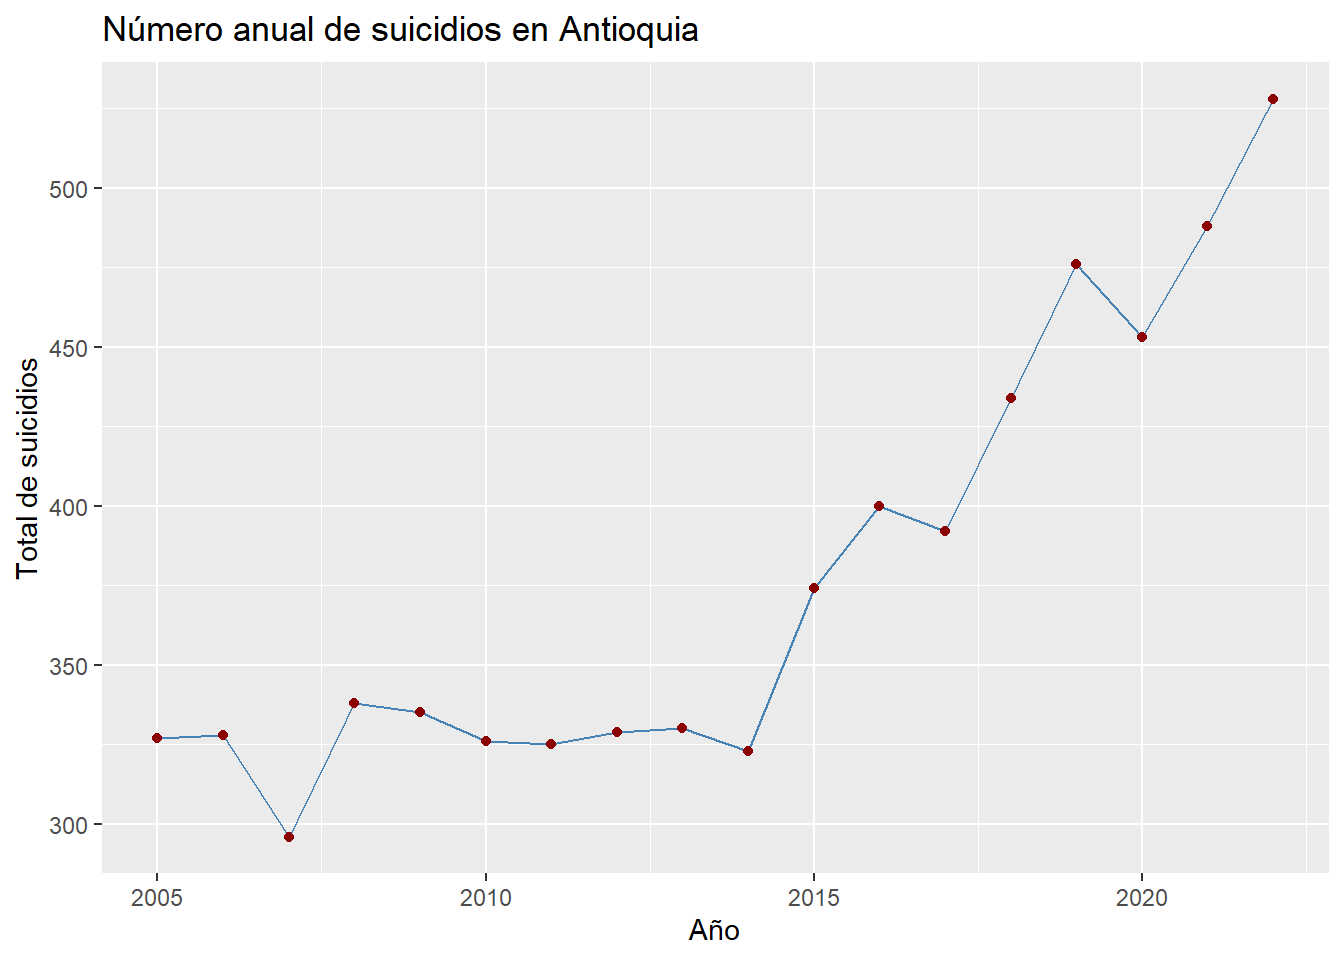
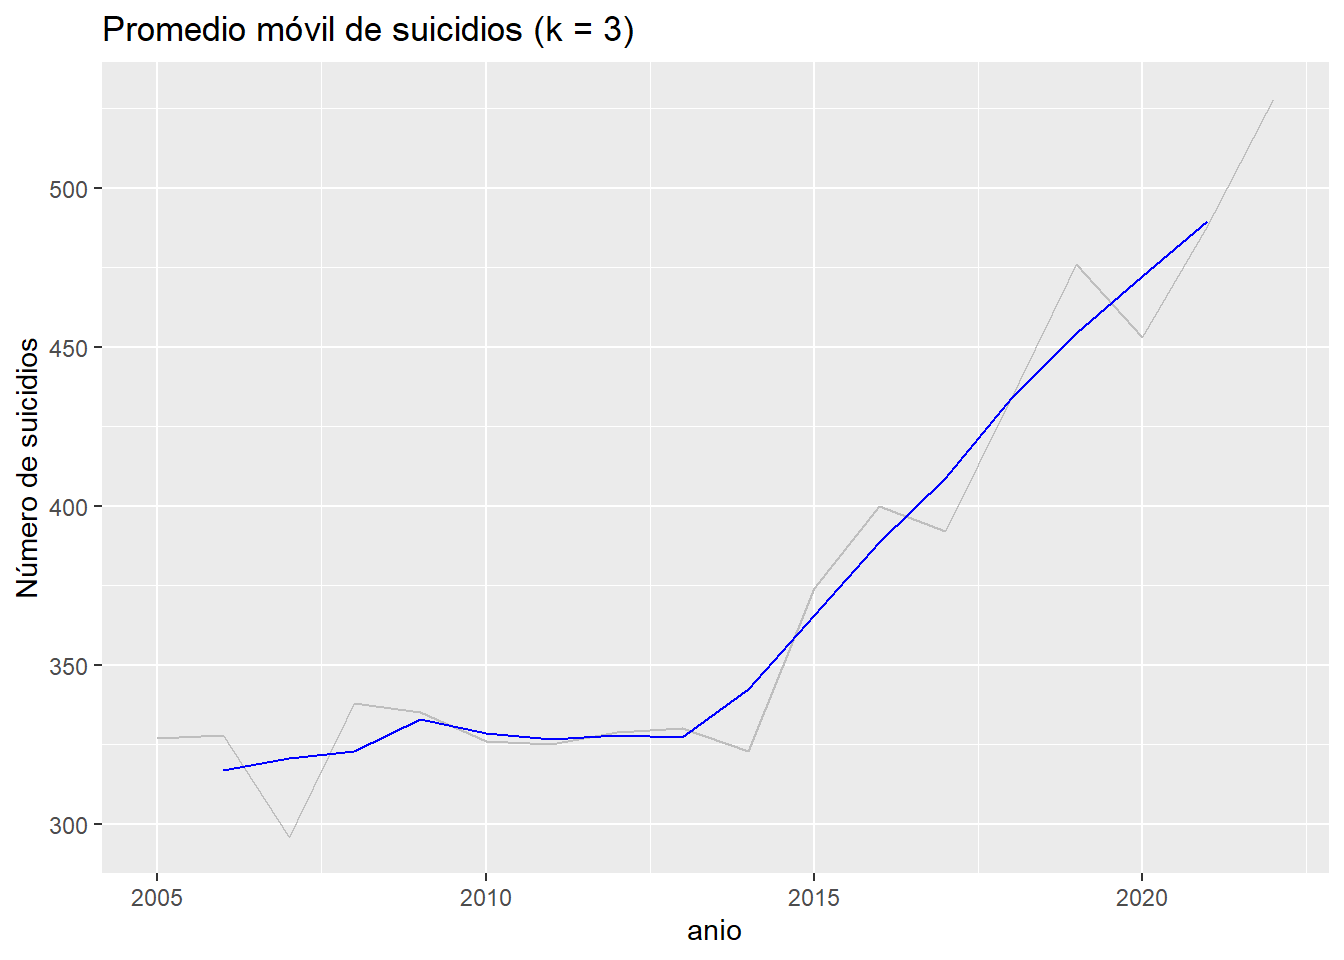
ac

diff --git a/docs/fundamentos.html b/docs/fundamentos.html
@@ -4,18 +4,18 @@
 
   <meta charset="utf-8" />
   <meta http-equiv="X-UA-Compatible" content="IE=edge" />
-  <title>Capítulo 3 Fundamentos Descriptivos | Series de Tiempo</title>
-  <meta name="description" content="Capítulo 3 Fundamentos Descriptivos | Series de Tiempo" />
+  <title>Capítulo 2 Fundamentos Descriptivos | Series de Tiempo</title>
+  <meta name="description" content="Capítulo 2 Fundamentos Descriptivos | Series de Tiempo" />
   <meta name="generator" content="bookdown 0.43 and GitBook 2.6.7" />
 
-  <meta property="og:title" content="Capítulo 3 Fundamentos Descriptivos | Series de Tiempo" />
+  <meta property="og:title" content="Capítulo 2 Fundamentos Descriptivos | Series de Tiempo" />
   <meta property="og:type" content="book" />
   
   
   
 
   <meta name="twitter:card" content="summary" />
-  <meta name="twitter:title" content="Capítulo 3 Fundamentos Descriptivos | Series de Tiempo" />
+  <meta name="twitter:title" content="Capítulo 2 Fundamentos Descriptivos | Series de Tiempo" />
   
   
   
@@ -30,7 +30,7 @@
   <meta name="apple-mobile-web-app-status-bar-style" content="black" />
   
   
-<link rel="prev" href="pronóstico-de-suicidios-en-antioquia-2005-2022.html"/>
+<link rel="prev" href="intro.html"/>
 <link rel="next" href="holt_winter.html"/>
 <script src="libs/jquery-3.6.0/jquery-3.6.0.min.js"></script>
 <script src="https://cdn.jsdelivr.net/npm/fuse.js@6.4.6/dist/fuse.min.js"></script>
@@ -140,35 +140,30 @@ code span.wa { color: #60a0b0; font-weight: bold; font-style: italic; } /* Warni
 <li><a href="./">Series de Tiempo</a></li>
 
 <li class="divider"></li>
-<li class="chapter" data-level="1" data-path="intro.html"><a href="intro.html"><i class="fa fa-check"></i><b>1</b> Introduction</a></li>
-<li class="chapter" data-level="2" data-path="pronóstico-de-suicidios-en-antioquia-2005-2022.html"><a href="pronóstico-de-suicidios-en-antioquia-2005-2022.html"><i class="fa fa-check"></i><b>2</b> Pronóstico de Suicidios en Antioquia (2005-2022)</a>
+<li class="chapter" data-level="1" data-path="intro.html"><a href="intro.html"><i class="fa fa-check"></i><b>1</b> Introduction</a>
 <ul>
-<li class="chapter" data-level="2.1" data-path="pronóstico-de-suicidios-en-antioquia-2005-2022.html"><a href="pronóstico-de-suicidios-en-antioquia-2005-2022.html#justificación"><i class="fa fa-check"></i><b>2.1</b> Justificación</a></li>
-<li class="chapter" data-level="2.2" data-path="pronóstico-de-suicidios-en-antioquia-2005-2022.html"><a href="pronóstico-de-suicidios-en-antioquia-2005-2022.html#por-qué-aplica-para-pronóstico-en-series-de-tiempo"><i class="fa fa-check"></i><b>2.2</b> ¿Por qué aplica para pronóstico en series de tiempo?</a></li>
-<li class="chapter" data-level="2.3" data-path="pronóstico-de-suicidios-en-antioquia-2005-2022.html"><a href="pronóstico-de-suicidios-en-antioquia-2005-2022.html#valor-agregado-del-pronóstico"><i class="fa fa-check"></i><b>2.3</b> Valor agregado del pronóstico</a></li>
-<li class="chapter" data-level="2.4" data-path="pronóstico-de-suicidios-en-antioquia-2005-2022.html"><a href="pronóstico-de-suicidios-en-antioquia-2005-2022.html#fuente-de-los-datos-y-permisos-de-uso"><i class="fa fa-check"></i><b>2.4</b> Fuente de los datos y permisos de uso</a></li>
+<li class="chapter" data-level="1.1" data-path="intro.html"><a href="intro.html#justificación"><i class="fa fa-check"></i><b>1.1</b> Justificación</a></li>
+<li class="chapter" data-level="1.2" data-path="intro.html"><a href="intro.html#por-qué-aplica-para-pronóstico-en-series-de-tiempo"><i class="fa fa-check"></i><b>1.2</b> ¿Por qué aplica para pronóstico en series de tiempo?</a></li>
+<li class="chapter" data-level="1.3" data-path="intro.html"><a href="intro.html#valor-agregado-del-pronóstico"><i class="fa fa-check"></i><b>1.3</b> Valor agregado del pronóstico</a></li>
+<li class="chapter" data-level="1.4" data-path="intro.html"><a href="intro.html#fuente-de-los-datos-y-permisos-de-uso"><i class="fa fa-check"></i><b>1.4</b> Fuente de los datos y permisos de uso</a></li>
 </ul></li>
-<li class="chapter" data-level="3" data-path="fundamentos.html"><a href="fundamentos.html"><i class="fa fa-check"></i><b>3</b> Fundamentos Descriptivos</a>
+<li class="chapter" data-level="2" data-path="fundamentos.html"><a href="fundamentos.html"><i class="fa fa-check"></i><b>2</b> Fundamentos Descriptivos</a>
 <ul>
-<li class="chapter" data-level="3.1" data-path="fundamentos.html"><a href="fundamentos.html#exploracion-de-datos"><i class="fa fa-check"></i><b>3.1</b> Exploracion de Datos</a></li>
-<li class="chapter" data-level="3.2" data-path="fundamentos.html"><a href="fundamentos.html#promedio-movil."><i class="fa fa-check"></i><b>3.2</b> Promedio Movil.</a></li>
-<li class="chapter" data-level="3.3" data-path="fundamentos.html"><a href="fundamentos.html#rezagos-y-autocorrelación"><i class="fa fa-check"></i><b>3.3</b> Rezagos y autocorrelación</a></li>
-<li class="chapter" data-level="3.4" data-path="fundamentos.html"><a href="fundamentos.html#estacionariedad-y-diferenciación"><i class="fa fa-check"></i><b>3.4</b> Estacionariedad y diferenciación</a></li>
-<li class="chapter" data-level="3.5" data-path="fundamentos.html"><a href="fundamentos.html#transformación-box-cox"><i class="fa fa-check"></i><b>3.5</b> Transformación Box-Cox</a></li>
+<li class="chapter" data-level="2.1" data-path="fundamentos.html"><a href="fundamentos.html#exploracion-de-datos"><i class="fa fa-check"></i><b>2.1</b> Exploracion de Datos</a></li>
+<li class="chapter" data-level="2.2" data-path="fundamentos.html"><a href="fundamentos.html#promedio-movil."><i class="fa fa-check"></i><b>2.2</b> Promedio Movil.</a></li>
+<li class="chapter" data-level="2.3" data-path="fundamentos.html"><a href="fundamentos.html#rezagos-y-autocorrelación"><i class="fa fa-check"></i><b>2.3</b> Rezagos y autocorrelación</a></li>
+<li class="chapter" data-level="2.4" data-path="fundamentos.html"><a href="fundamentos.html#estacionariedad-y-diferenciación"><i class="fa fa-check"></i><b>2.4</b> Estacionariedad y diferenciación</a></li>
+<li class="chapter" data-level="2.5" data-path="fundamentos.html"><a href="fundamentos.html#transformación-box-cox"><i class="fa fa-check"></i><b>2.5</b> Transformación Box-Cox</a></li>
 </ul></li>
-<li class="chapter" data-level="4" data-path="holt_winter.html"><a href="holt_winter.html"><i class="fa fa-check"></i><b>4</b> Modelado con Holt Winters y Suavizante</a>
+<li class="chapter" data-level="3" data-path="holt_winter.html"><a href="holt_winter.html"><i class="fa fa-check"></i><b>3</b> Modelado con Holt Winters y Suavizante</a>
 <ul>
-<li class="chapter" data-level="4.1" data-path="holt_winter.html"><a href="holt_winter.html#metodologia-de-holt-winters"><i class="fa fa-check"></i><b>4.1</b> Metodologia de Holt Winters</a></li>
+<li class="chapter" data-level="3.1" data-path="holt_winter.html"><a href="holt_winter.html#metodologia-de-holt-winters"><i class="fa fa-check"></i><b>3.1</b> Metodologia de Holt Winters</a></li>
 </ul></li>
-<<<<<<< HEAD
 <li class="chapter" data-level="4" data-path="Modelo_lineal_estacionariedad.html"><a href="Modelo_lineal_estacionariedad.html"><i class="fa fa-check"></i><b>4</b> Análisis Temporal: Modelos Lineales y Estacionariedad</a></li>
 <li class="chapter" data-level="5" data-path="Prophet.html"><a href="Prophet.html"><i class="fa fa-check"></i><b>5</b> Aplicación del Modelo Prophet</a>
 <ul>
 <li class="chapter" data-level="5.1" data-path="Prophet.html"><a href="Prophet.html#justificación-regresiva-y-ajuste-estacionario-en-series-temporales"><i class="fa fa-check"></i><b>5.1</b> Justificación Regresiva y Ajuste Estacionario en Series Temporales</a></li>
 </ul></li>
-=======
-<li class="chapter" data-level="5" data-path="Modelo_lineal_estacionariedad.html"><a href="Modelo_lineal_estacionariedad.html"><i class="fa fa-check"></i><b>5</b> Análisis Temporal: Modelos Lineales y Estacionariedad</a></li>
->>>>>>> c8d0ec3f0c4178bc477d328849ca25a4e4495198
 <li class="chapter" data-level="" data-path="references.html"><a href="references.html"><i class="fa fa-check"></i>References</a></li>
 <li class="divider"></li>
 <li><a href="https://github.com/zairapizo/SeriesTime" target="blank">Publicado con Bookdown</a></li>
@@ -190,8 +185,8 @@ code span.wa { color: #60a0b0; font-weight: bold; font-style: italic; } /* Warni
           <div class="page-inner">
 
             <section class="normal" id="section-">
-<div id="fundamentos" class="section level1 hasAnchor" number="3">
-<h1><span class="header-section-number">Capítulo 3</span> Fundamentos Descriptivos<a href="fundamentos.html#fundamentos" class="anchor-section" aria-label="Anchor link to header"></a></h1>
+<div id="fundamentos" class="section level1 hasAnchor" number="2">
+<h1><span class="header-section-number">Capítulo 2</span> Fundamentos Descriptivos<a href="fundamentos.html#fundamentos" class="anchor-section" aria-label="Anchor link to header"></a></h1>
 <p><strong>Variables de la base de datos</strong></p>
 <div class="sourceCode" id="cb1"><pre class="sourceCode r"><code class="sourceCode r"><span id="cb1-1"><a href="fundamentos.html#cb1-1" tabindex="-1"></a><span class="fu">colnames</span>(datos)</span></code></pre></div>
 <pre><code>##  [1] &quot;nombremunicipio&quot;         &quot;codigomunicipio&quot;        
@@ -212,8 +207,8 @@ code span.wa { color: #60a0b0; font-weight: bold; font-style: italic; } /* Warni
 <p><strong>número total de registros</strong></p>
 <div class="sourceCode" id="cb5"><pre class="sourceCode r"><code class="sourceCode r"><span id="cb5-1"><a href="fundamentos.html#cb5-1" tabindex="-1"></a><span class="fu">nrow</span>(datos)</span></code></pre></div>
 <pre><code>## [1] 2250</code></pre>
-<div id="exploracion-de-datos" class="section level2 hasAnchor" number="3.1">
-<h2><span class="header-section-number">3.1</span> Exploracion de Datos<a href="fundamentos.html#exploracion-de-datos" class="anchor-section" aria-label="Anchor link to header"></a></h2>
+<div id="exploracion-de-datos" class="section level2 hasAnchor" number="2.1">
+<h2><span class="header-section-number">2.1</span> Exploracion de Datos<a href="fundamentos.html#exploracion-de-datos" class="anchor-section" aria-label="Anchor link to header"></a></h2>
 <p>Se inicia con la exploracion del Dataset, asi como con el resumen estadistico</p>
 <p><strong>Estructura del dataset</strong></p>
 <div class="sourceCode" id="cb7"><pre class="sourceCode r"><code class="sourceCode r"><span id="cb7-1"><a href="fundamentos.html#cb7-1" tabindex="-1"></a><span class="co"># </span></span>
@@ -341,7 +336,7 @@ code span.wa { color: #60a0b0; font-weight: bold; font-style: italic; } /* Warni
 ## ==&gt;  V &lt;==  No need for mice. This data set is completely observed.
 ##  \  \|/  /
 ##   `-----&#39;</code></pre>
-<p><img src="series-tiempo_files/figure-html/unnamed-chunk-6-1.png" width="672" /></p>
+<p><img src="series-tiempo_files/figure-html/unnamed-chunk-5-1.png" width="672" /></p>
 <div class="sourceCode" id="cb14"><pre class="sourceCode r"><code class="sourceCode r"><span id="cb14-1"><a href="fundamentos.html#cb14-1" tabindex="-1"></a><span class="co">#Construcción de la serie temporal</span></span>
 <span id="cb14-2"><a href="fundamentos.html#cb14-2" tabindex="-1"></a></span>
 <span id="cb14-3"><a href="fundamentos.html#cb14-3" tabindex="-1"></a>df <span class="ot">&lt;-</span> datos <span class="sc">%&gt;%</span></span>
@@ -393,7 +388,7 @@ code span.wa { color: #60a0b0; font-weight: bold; font-style: italic; } /* Warni
 <span id="cb16-7"><a href="fundamentos.html#cb16-7" tabindex="-1"></a>  <span class="fu">geom_point</span>(<span class="at">color =</span> <span class="st">&quot;darkred&quot;</span>) <span class="sc">+</span></span>
 <span id="cb16-8"><a href="fundamentos.html#cb16-8" tabindex="-1"></a>  <span class="fu">labs</span>(<span class="at">title =</span> <span class="st">&quot;Número anual de suicidios en Antioquia&quot;</span>,</span>
 <span id="cb16-9"><a href="fundamentos.html#cb16-9" tabindex="-1"></a>       <span class="at">x =</span> <span class="st">&quot;Año&quot;</span>, <span class="at">y =</span> <span class="st">&quot;Total de suicidios&quot;</span>)</span></code></pre></div>
-<p><img src="series-tiempo_files/figure-html/unnamed-chunk-7-1.png" width="672" /></p>
+<p><img src="series-tiempo_files/figure-html/unnamed-chunk-6-1.png" width="672" /></p>
 <p>La serie muestra una tendencia creciente clara a partir de 2014, con un aumento sostenido en el número de casos de suicidio. Entre 2005 y 2013, los valores se mantienen relativamente estables,con pequeñas fluctuaciones. Desde 2014 se observa una aceleración en el crecimiento,con picos notables en 2018, 2021 y 2022.</p>
 <p>Esto sugiere la presencia de una tendencia no estacionaria, lo que indica que el uso de técnicas como la diferenciación o modelado ARIMA es apropiado para pronóstico y análisis más avanzado.</p>
 <p>La gráfica no evidencia patrones cíclicos repetitivos anuales, lo cual es esperable al trabajar con datos anuales.</p>
@@ -401,8 +396,8 @@ code span.wa { color: #60a0b0; font-weight: bold; font-style: italic; } /* Warni
 <p>Estos descensos temporales podrían representar factores exógenos o eventos sociales que afectaron los reportes o las causas de suicidio.</p>
 <p>Estas irregularidades justifican el uso de métodos de suaviza miento como promedios móviles para atenuar las variaciones y destacar la tendencia.</p>
 </div>
-<div id="promedio-movil." class="section level2 hasAnchor" number="3.2">
-<h2><span class="header-section-number">3.2</span> Promedio Movil.<a href="fundamentos.html#promedio-movil." class="anchor-section" aria-label="Anchor link to header"></a></h2>
+<div id="promedio-movil." class="section level2 hasAnchor" number="2.2">
+<h2><span class="header-section-number">2.2</span> Promedio Movil.<a href="fundamentos.html#promedio-movil." class="anchor-section" aria-label="Anchor link to header"></a></h2>
 <p>Promedio móvil del número de suicidios por año en Antioquia (2005–2022)</p>
 <div class="sourceCode" id="cb17"><pre class="sourceCode r"><code class="sourceCode r"><span id="cb17-1"><a href="fundamentos.html#cb17-1" tabindex="-1"></a><span class="co">#Promedio móvil</span></span>
 <span id="cb17-2"><a href="fundamentos.html#cb17-2" tabindex="-1"></a>suicidios_anuales <span class="ot">&lt;-</span> suicidios_anuales <span class="sc">%&gt;%</span></span>
@@ -413,7 +408,7 @@ code span.wa { color: #60a0b0; font-weight: bold; font-style: italic; } /* Warni
 <span id="cb17-7"><a href="fundamentos.html#cb17-7" tabindex="-1"></a>  <span class="fu">geom_line</span>(<span class="fu">aes</span>(<span class="at">y =</span> promedio_movil), <span class="at">color =</span> <span class="st">&quot;blue&quot;</span>) <span class="sc">+</span></span>
 <span id="cb17-8"><a href="fundamentos.html#cb17-8" tabindex="-1"></a>  <span class="fu">labs</span>(<span class="at">title =</span> <span class="st">&quot;Promedio móvil de suicidios (k = 3)&quot;</span>,</span>
 <span id="cb17-9"><a href="fundamentos.html#cb17-9" tabindex="-1"></a>       <span class="at">y =</span> <span class="st">&quot;Número de suicidios&quot;</span>)</span></code></pre></div>
-<p><img src="series-tiempo_files/figure-html/unnamed-chunk-8-1.png" width="672" /></p>
+<p><img src="series-tiempo_files/figure-html/unnamed-chunk-7-1.png" width="672" /></p>
 <p>El anterior gráfico presenta el promedio móvil del número de suicidios por año en Antioquia desde 2005, utilizando una ventana de suavizamiento de k=3.</p>
 <p>De las cual se puede describir lo siguiente:</p>
 <p>La línea gris representa los datos anuales reales de suicidios.</p>
@@ -423,13 +418,13 @@ code span.wa { color: #60a0b0; font-weight: bold; font-style: italic; } /* Warni
 <p>El promedio móvil permite visualizar un crecimiento sostenido, especialmente desde 2015 en adelante.</p>
 <p>Puedo deducir algunas interpretaciones como que el aumento continuo podría estar relacionado con factores estructurales como problemas de salud mental, desigualdades sociales, impactos económicos o, en los años más recientes, efectos derivados de la pandemia.</p>
 </div>
-<div id="rezagos-y-autocorrelación" class="section level2 hasAnchor" number="3.3">
-<h2><span class="header-section-number">3.3</span> Rezagos y autocorrelación<a href="fundamentos.html#rezagos-y-autocorrelación" class="anchor-section" aria-label="Anchor link to header"></a></h2>
+<div id="rezagos-y-autocorrelación" class="section level2 hasAnchor" number="2.3">
+<h2><span class="header-section-number">2.3</span> Rezagos y autocorrelación<a href="fundamentos.html#rezagos-y-autocorrelación" class="anchor-section" aria-label="Anchor link to header"></a></h2>
 <div class="sourceCode" id="cb18"><pre class="sourceCode r"><code class="sourceCode r"><span id="cb18-1"><a href="fundamentos.html#cb18-1" tabindex="-1"></a>ts_suicidios <span class="ot">&lt;-</span> <span class="fu">ts</span>(suicidios_anuales<span class="sc">$</span>total_suicidios, <span class="at">start =</span> <span class="fu">min</span>(suicidios_anuales<span class="sc">$</span>anio), <span class="at">frequency =</span> <span class="dv">1</span>)</span>
 <span id="cb18-2"><a href="fundamentos.html#cb18-2" tabindex="-1"></a></span>
 <span id="cb18-3"><a href="fundamentos.html#cb18-3" tabindex="-1"></a><span class="co"># Autocorrelación</span></span>
 <span id="cb18-4"><a href="fundamentos.html#cb18-4" tabindex="-1"></a>forecast<span class="sc">::</span><span class="fu">ggAcf</span>(ts_suicidios) <span class="sc">+</span> <span class="fu">ggtitle</span>(<span class="st">&quot;Función de Autocorrelación (ACF)&quot;</span>)</span></code></pre></div>
-<p><img src="series-tiempo_files/figure-html/unnamed-chunk-9-1.png" width="672" /></p>
+<p><img src="series-tiempo_files/figure-html/unnamed-chunk-8-1.png" width="672" /></p>
 <div class="sourceCode" id="cb19"><pre class="sourceCode r"><code class="sourceCode r"><span id="cb19-1"><a href="fundamentos.html#cb19-1" tabindex="-1"></a><span class="co"># Descomposición</span></span>
 <span id="cb19-2"><a href="fundamentos.html#cb19-2" tabindex="-1"></a><span class="co"># Si tuvieras frecuencia mensual: frequency = 12</span></span>
 <span id="cb19-3"><a href="fundamentos.html#cb19-3" tabindex="-1"></a><span class="co">#decomposicion &lt;- decompose(ts_suicidios, type = &quot;additive&quot;)</span></span>
@@ -446,8 +441,8 @@ code span.wa { color: #60a0b0; font-weight: bold; font-style: italic; } /* Warni
 <p>La estructura de autocorrelación sugiere que un modelo autoregresivo simple, como AR(1) o AR(2), podría ser adecuado para capturar la dinámica de la serie.</p>
 <p>No se identifican patrones de estacionalidad, ya que no se observan picos regulares a intervalos fijos (por ejemplo, cada 12 rezagos, como sería típico en series mensuales con estacionalidad anual).</p>
 </div>
-<div id="estacionariedad-y-diferenciación" class="section level2 hasAnchor" number="3.4">
-<h2><span class="header-section-number">3.4</span> Estacionariedad y diferenciación<a href="fundamentos.html#estacionariedad-y-diferenciación" class="anchor-section" aria-label="Anchor link to header"></a></h2>
+<div id="estacionariedad-y-diferenciación" class="section level2 hasAnchor" number="2.4">
+<h2><span class="header-section-number">2.4</span> Estacionariedad y diferenciación<a href="fundamentos.html#estacionariedad-y-diferenciación" class="anchor-section" aria-label="Anchor link to header"></a></h2>
 <p>Test de Dickey-Fuller Aumentado (ADF)</p>
 <div class="sourceCode" id="cb20"><pre class="sourceCode r"><code class="sourceCode r"><span id="cb20-1"><a href="fundamentos.html#cb20-1" tabindex="-1"></a><span class="fu">adf.test</span>(ts_suicidios)  <span class="co"># Prueba de Dickey-Fuller aumentada</span></span></code></pre></div>
 <pre><code>## 
@@ -471,7 +466,7 @@ code span.wa { color: #60a0b0; font-weight: bold; font-style: italic; } /* Warni
 <span id="cb22-2"><a href="fundamentos.html#cb22-2" tabindex="-1"></a>ts_diff <span class="ot">&lt;-</span> <span class="fu">diff</span>(ts_suicidios)</span>
 <span id="cb22-3"><a href="fundamentos.html#cb22-3" tabindex="-1"></a></span>
 <span id="cb22-4"><a href="fundamentos.html#cb22-4" tabindex="-1"></a><span class="fu">plot</span>(ts_diff, <span class="at">main =</span> <span class="st">&quot;Serie diferenciada&quot;</span>, <span class="at">ylab =</span> <span class="st">&quot;Diferencia de suicidios&quot;</span>)</span></code></pre></div>
-<p><img src="series-tiempo_files/figure-html/unnamed-chunk-11-1.png" width="672" /></p>
+<p><img src="series-tiempo_files/figure-html/unnamed-chunk-10-1.png" width="672" /></p>
 <p>La gráfica anterior muestra las diferencias anuales en el número de suicidios, lo que permite analizar el comportamiento de los cambios interanuales.</p>
 <p>En comparación con la serie original, podemos| obseravr que el comportamiento ahora es más estable, y se ha eliminado la tendencia creciente previamente observada.</p>
 <p>No obstante, se evidencian fluctuaciones amplias en ciertos periodos, especialmente después de 2014, lo que podría reflejar cambios estructurales o eventos atípicos en esos años.</p>
@@ -494,13 +489,13 @@ code span.wa { color: #60a0b0; font-weight: bold; font-style: italic; } /* Warni
 <p>Interpretación:</p>
 <p>El valor p obtenido (0.4921) es significativamente mayor que el umbral común de significancia (0.05), por lo tanto, no se rechaza la hipótesis nula de no estacionariedad. Esto sugiere que, incluso después de aplicar una primera diferenciación, la serie aún no cumple con los criterios estadísticos de estacionariedad según el test ADF.</p>
 </div>
-<div id="transformación-box-cox" class="section level2 hasAnchor" number="3.5">
-<h2><span class="header-section-number">3.5</span> Transformación Box-Cox<a href="fundamentos.html#transformación-box-cox" class="anchor-section" aria-label="Anchor link to header"></a></h2>
+<div id="transformación-box-cox" class="section level2 hasAnchor" number="2.5">
+<h2><span class="header-section-number">2.5</span> Transformación Box-Cox<a href="fundamentos.html#transformación-box-cox" class="anchor-section" aria-label="Anchor link to header"></a></h2>
 <div class="sourceCode" id="cb25"><pre class="sourceCode r"><code class="sourceCode r"><span id="cb25-1"><a href="fundamentos.html#cb25-1" tabindex="-1"></a>lambda <span class="ot">&lt;-</span> <span class="fu">BoxCox.lambda</span>(ts_suicidios)</span>
 <span id="cb25-2"><a href="fundamentos.html#cb25-2" tabindex="-1"></a>ts_boxcox <span class="ot">&lt;-</span> <span class="fu">BoxCox</span>(ts_suicidios, lambda)</span>
 <span id="cb25-3"><a href="fundamentos.html#cb25-3" tabindex="-1"></a></span>
 <span id="cb25-4"><a href="fundamentos.html#cb25-4" tabindex="-1"></a><span class="fu">autoplot</span>(ts_boxcox) <span class="sc">+</span> <span class="fu">ggtitle</span>(<span class="st">&quot;Serie transformada con Box-Cox&quot;</span>)</span></code></pre></div>
-<p><img src="series-tiempo_files/figure-html/unnamed-chunk-13-1.png" width="672" /></p>
+<p><img src="series-tiempo_files/figure-html/unnamed-chunk-12-1.png" width="672" /></p>
 </div>
 </div>
             </section>
@@ -508,7 +503,7 @@ code span.wa { color: #60a0b0; font-weight: bold; font-style: italic; } /* Warni
           </div>
         </div>
       </div>
-<a href="pronóstico-de-suicidios-en-antioquia-2005-2022.html" class="navigation navigation-prev " aria-label="Previous page"><i class="fa fa-angle-left"></i></a>
+<a href="intro.html" class="navigation navigation-prev " aria-label="Previous page"><i class="fa fa-angle-left"></i></a>
 <a href="holt_winter.html" class="navigation navigation-next " aria-label="Next page"><i class="fa fa-angle-right"></i></a>
     </div>
   </div>
